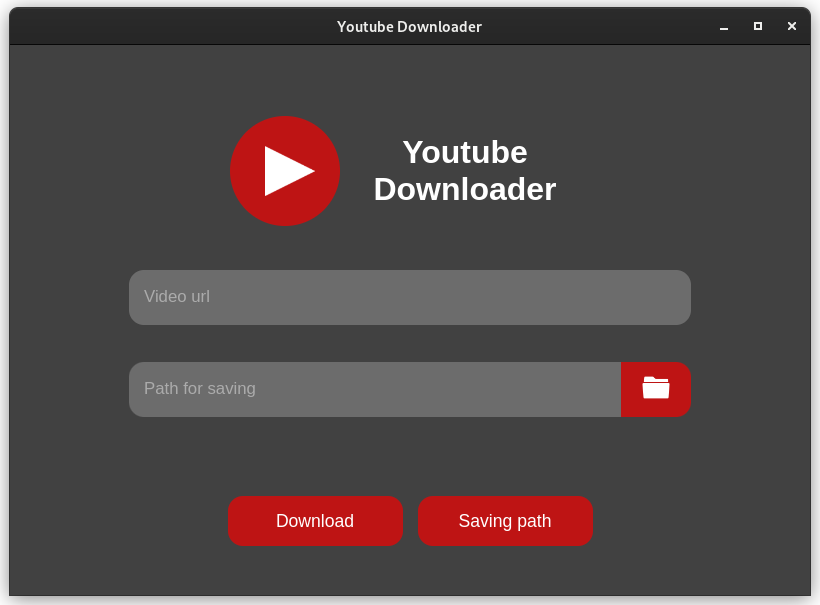
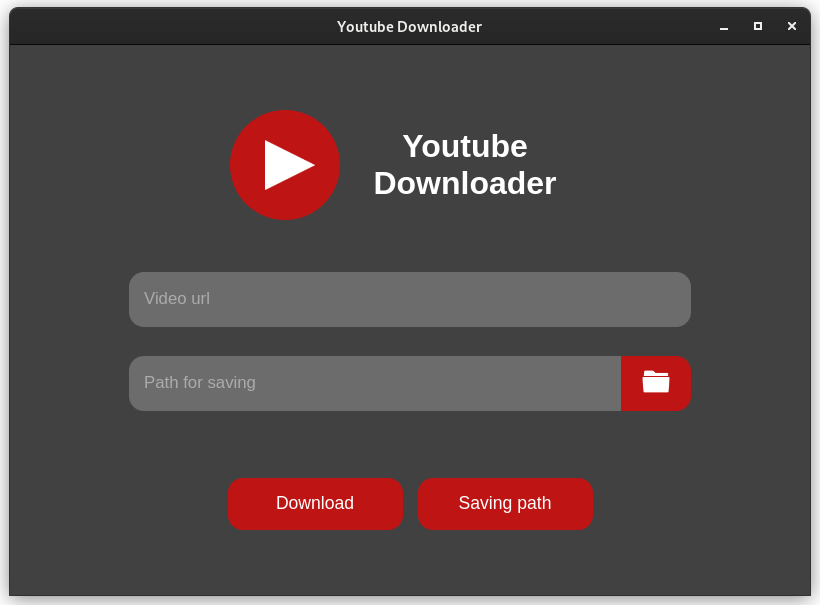
main v1.2.3
- Small UI fixes (Changed some css code)
- Added icon for path explorer (Windows only)
- Changed interface preview in README

diff --git a/Interface/CSS/style.css b/Interface/CSS/style.css
@@ -30,7 +30,7 @@ body {
 
 .container {
     width: 100%;
-    height: 460px;
+    height: 420px;
     max-width: 800px;
     padding: 20px;
     display: grid;
@@ -41,7 +41,6 @@ body {
 .container header {
     display: flex;
     justify-content: center;
-    align-items: center;
 }
 
 .container header .logo {
@@ -70,8 +69,11 @@ body {
 
 .container header .app-name {
     width: 250px;
+    height: 110px;
     color: white;
     text-align: center;
+    display: inline-flex;
+    align-items: center;
 }
 
 .container main {
@@ -162,36 +164,31 @@ body {
     grid-template-columns: 100%;
     grid-template-rows: 50% 50%;
     color: white;
+    padding: 0 55px 0 55px;
 }
 
 .container footer .status {
     align-self: center;
     text-align: center;
+    font-size: 90%;
 }
 
 .container footer .footer-buttons {
     display: inline-flex;
     justify-content: center;
-    align-items: center;
+    align-items: flex-end;
+    gap: 15px;
 }
 
 .container footer .footer-buttons button {
     width: 175px;
-    height: 50px;
+    height: 100%;
     background-color: #be1414;
     border: none;
     border-radius: 15px;
     color: white;
     font-size: 110%;
     transition-duration: 0.3s;
-}
-
-.container footer .footer-buttons button:nth-child(1) {
-    margin-right: 7.5px;
-}
-
-.container footer .footer-buttons button:nth-child(2) {
-    margin-left: 7.5px;
 }
 
 .container footer .footer-buttons button:hover {

diff --git a/Interface/CSS/adaptive.css b/Interface/CSS/adaptive.css
@@ -1,23 +1,24 @@
-@media (max-height: 499px) {
+@media (max-height: 459px) {
     body {
         align-items: flex-start;
     }
 }
 
-@media (max-height: 570px) and (max-width: 675px) {
+@media (max-height: 540px) and (max-width: 625px) {
     body {
         align-items: flex-start;
     }
 }
 
-@media (max-width: 675px) {
+@media (max-width: 625px) {
     .container {
-        height: 530px;
-        grid-template-rows: auto calc(40% - 35px) calc(25% - 35px);
+        height: 500px;
+        grid-template-rows: auto calc(40% - 35px) calc(28% - 35px);
     }
 
     .container header {
         flex-direction: column;
-        justify-content: space-around;
+        justify-content: space-between;
+        align-items: center;
     }
 }

diff --git a/tkinterLayer.py b/tkinterLayer.py
@@ -1,3 +1,4 @@
+import sys
 from tkinter import *
 from tkinter import filedialog
 
@@ -7,8 +8,12 @@ class TkinterLayer():
         self.root=Tk()
         self.root.withdraw()
 
+        if sys.platform=="win32":
+            self.root.iconbitmap("Interface/Image/Icon.ico")
+
     def GetPathForDownload(self):
-        return filedialog.askdirectory(initialdir="/")
+        return filedialog.askdirectory(title="Select path for saving",
+                                       initialdir="/")
 
     def GetCenterOfMonitor(self, windowSize: tuple):
         CenterX=self.root.winfo_screenwidth() / 2 - windowSize[0] / 2
